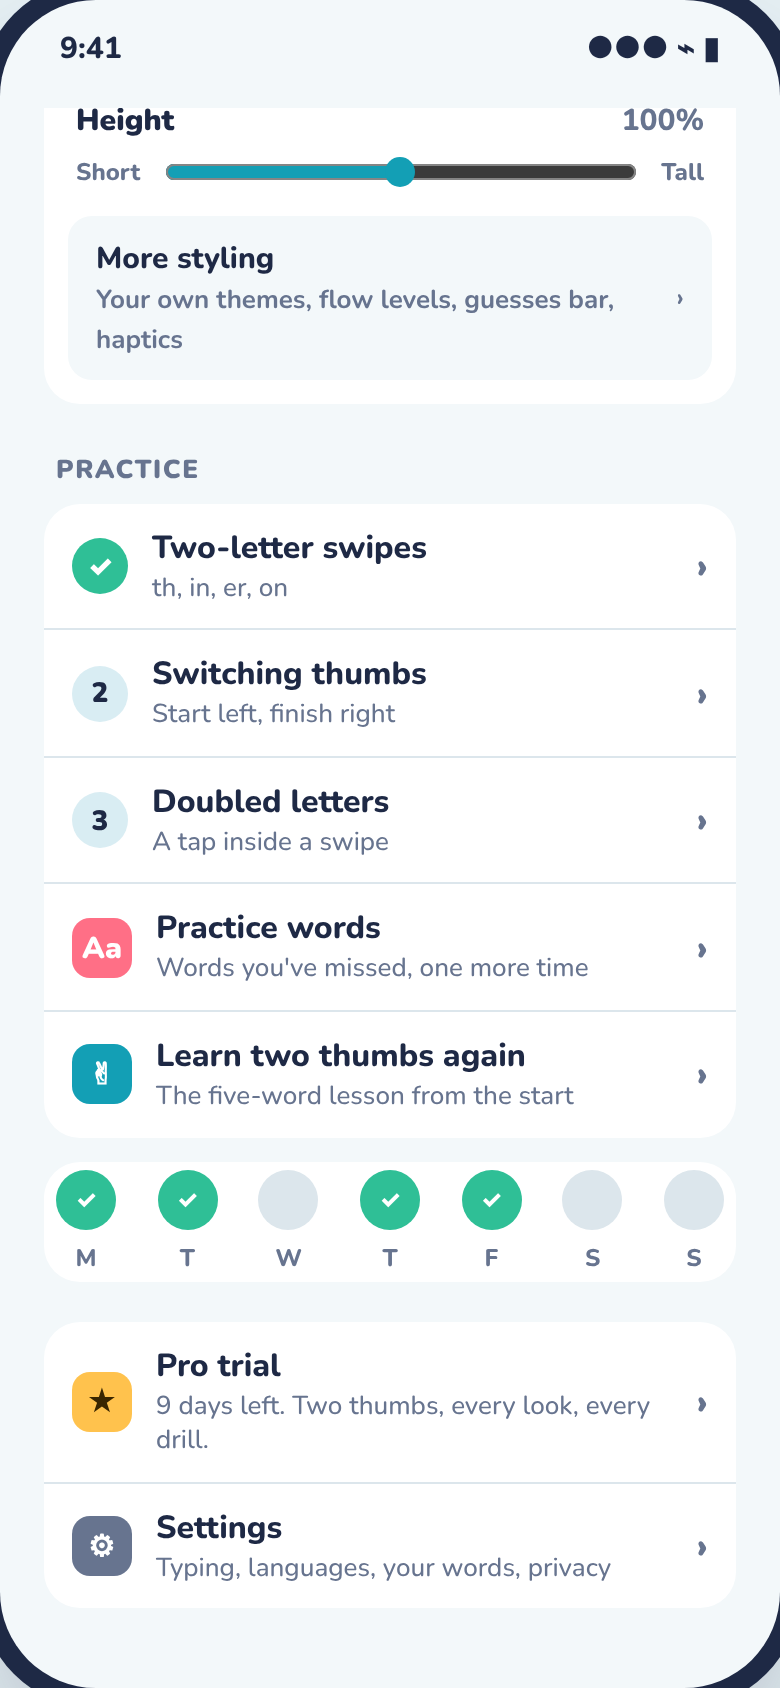
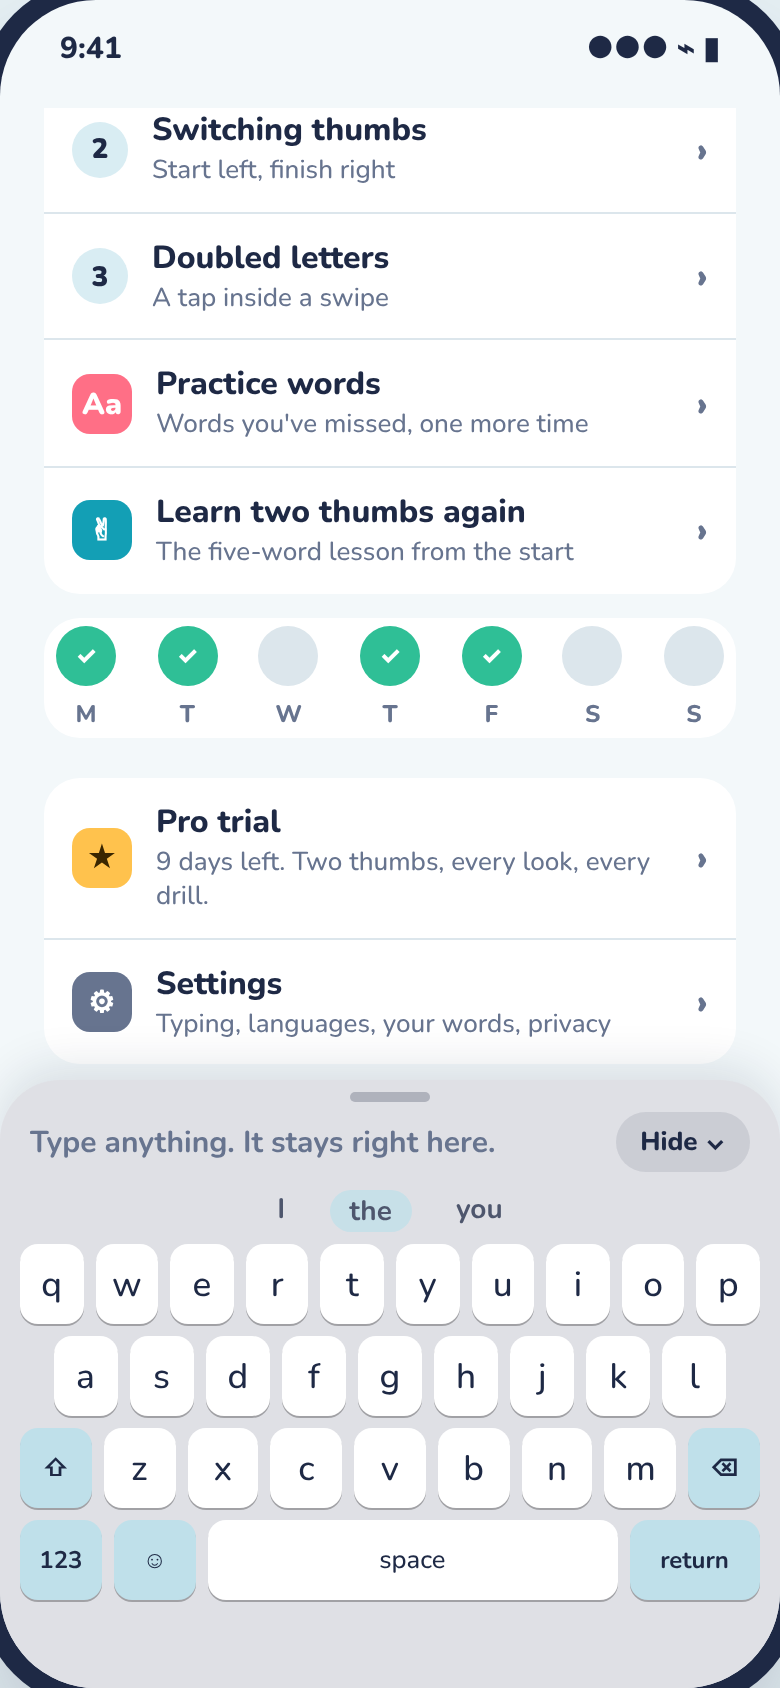
Astrotype: dock the try-it keyboard at the bottom of Home, with Hide
Claude-Session: https://claude.ai/code/session_01GG78N8xC4DUcsZruzJ5kAA

diff --git a/apps/astrotype/features/home-and-welcome/design/mockups/home-and-welcome.html b/apps/astrotype/features/home-and-welcome/design/mockups/home-and-welcome.html
@@ -180,6 +180,26 @@ input[type=range]{flex:1;accent-color:var(--accent)}
 .hint{color:var(--muted);font-size:14px;line-height:1.5}
 .hint .L{color:var(--left);font-weight:900}.hint .R{color:var(--right);font-weight:900}.hint b{color:var(--ink)}
 .kdock{padding:0 4px 26px;flex:none}
+/* KeyboardDock: the live keyboard docked at the bottom like the real one (KeyboardFrame's glass panel), with a handle to hide it */
+.dock{position:absolute;left:0;right:0;bottom:0;z-index:4;background:var(--glass);border-radius:30px 30px 0 0;padding:6px 5px 30px;
+  box-shadow:0 -6px 24px rgba(20,30,60,.12);transition:transform .5s var(--spring)}
+:root{--glass:#DFE0E5}
+@media (prefers-color-scheme: dark){:root:not([data-theme="light"]){--glass:#212121}}
+:root[data-theme="dark"]{--glass:#212121}
+.dock.hidden{transform:translateY(calc(100% + 10px))}
+.dock .dhead{display:flex;align-items:center;gap:8px;padding:2px 10px 6px}
+.dock .grab{position:absolute;top:6px;left:50%;width:40px;height:5px;margin-left:-20px;border-radius:3px;background:color-mix(in srgb,var(--ink) 25%,transparent)}
+.dock .play{flex:1;min-width:0;font-weight:700;font-size:15px;color:var(--ink);white-space:nowrap;overflow:hidden;text-overflow:ellipsis;padding-top:8px}
+.dock .play.empty{color:var(--muted)}
+.dock .hide{border:0;background:color-mix(in srgb,var(--ink) 10%,transparent);color:var(--ink);font-weight:800;font-size:13px;padding:6px 12px;border-radius:999px;cursor:pointer;margin-top:8px}
+.dock .kbd{background:transparent;padding-top:0}
+.phone.wide .dock .inner{max-width:680px;margin:0 auto}
+.phone.small .dock{padding-bottom:6px}
+.kpill{position:absolute;right:18px;bottom:30px;z-index:4;border:0;cursor:pointer;background:var(--ink);color:var(--bg);font-weight:800;font-size:15px;padding:12px 18px;border-radius:999px;
+  box-shadow:0 8px 20px rgba(20,30,60,.25);display:flex;gap:8px;align-items:center;transition:transform .4s var(--spring),opacity .2s}
+.kpill.gone{transform:translateY(30px) scale(.8);opacity:0;pointer-events:none}
+.scroll:has(~.kpill){padding-bottom:100px}
+.scroll.docked{padding-bottom:var(--dockh,320px)}
 .phone.wide .kdock{width:620px;align-self:center}
 .confetti{position:absolute;inset:0;pointer-events:none;z-index:5}
 .stub{display:flex;flex-direction:column;gap:10px;align-items:center;justify-content:center;flex:1;text-align:center;padding:30px;color:var(--muted)}
@@ -194,6 +214,7 @@ input[type=range]{flex:1;accent-color:var(--accent)}
     <small>Home</small>
     <button data-s="before">Home today (before)</button>
     <button data-s="home">New Home</button>
+    <button data-s="homeHidden">New Home, keyboard hidden</button>
     <button data-s="homeFree">New Home, trial over</button>
     <small>Welcome wizard</small>
     <button data-s="hello">1 · Hello</button>
@@ -256,16 +277,17 @@ const WORDS=[
 ];
 
 const S={screen:"home",size:"",theme:"light",kbTheme:"classic",fx:"calm",height:100,pro:true,keyboardOn:false,langs:{en:true,es:true},
-  tryIdx:0,typed:"",lesson:false,sync:false};
+  tryIdx:0,typed:"",lesson:false,sync:false,dockOpen:true,play:""};
 const STEPS=["hello","turnOn","languages","style","tryIt","sync"];
 const WHY={
   before:"Home today: Your speed, Pro, three drills, the week and a Settings row. How the keyboard looks is Home → Settings → Appearance → Styling or Effects, three taps down.",
-  home:"Your speed still leads. Under it, Your keyboard: a live keyboard you can tap, every theme in a sideways row, effect chips, height. Changes go to the keyboard in every app right away. More styling opens today's Appearance page. Practice is one section, with Learn two thumbs again at the end.",
+  home:"Your speed still leads. The keyboard sits at the bottom like the real one, so it's always there to try while you pick a theme, an effect or a height in the Your keyboard card above it. Hide tucks it away; the Keyboard button brings it back. Changes go to the keyboard in every app right away.",
+  homeHidden:"Keyboard hidden: Home is just Home again, and a small Keyboard button in the corner brings it back. Home remembers which way you left it.",
   homeFree:"After the trial, Pro looks fall back to Classic and Calm as today. The card says so once, kindly, and Pro cards keep their tag; tapping one opens Pro.",
   hello:"Step 1, as today. No progress bar yet, just the hello.",
   turnOn:"Step 2. Same words and the same chip that flips to On by itself. Tap 'Open Settings' here to pretend you turned it on. Skip and 'I'll do it later' both move on.",
   languages:"Step 3, only on a phone with more than one language the keyboard knows. Same as today, in the wizard's shape.",
-  style:"Step 4, new. The Your keyboard card, bigger. Classic and Calm are picked to start. Tap a theme or an effect, then tap the keys. Everyone is on the trial here, so Pro looks just carry a small tag.",
+  style:"Step 4, new. The keyboard is docked at the bottom, like on Home, with the theme and effect pickers above it. Classic and Calm are picked to start. Tap a theme or an effect, then tap the keys. Everyone is on the trial here, so Pro looks just carry a small tag.",
   tryIt:"Step 5, today's lesson in the same shape, typed on the look you just picked. Tap 'Show me' to watch, or type the letters and press space. Tap Skip to jump ahead.",
   sync:"Step 6, the Full Access ask, moved after Try it: now it already has words worth keeping.",
   arrive:"Done: Home with confetti, already in your style.",
@@ -362,7 +384,7 @@ function speedCard(){
   const pts=[31,33,32,36,35,38,37,40,39,42,41,44,43,46];const w=300,h=46;const xs=i=>i*w/(pts.length-1),ys=v=>h-4-(v-28)/20*(h-8);
   const d=pts.map((v,i)=>`${i?"L":"M"}${xs(i).toFixed(1)},${ys(v).toFixed(1)}`).join("");
   return `<div class="card" style="display:flex;flex-direction:column;gap:10px">
-    <div class="row"><b style="font-size:17px">Your speed</b><span class="spacer"></span><span class="chip on">↑ 6 this month</span></div>
+    <div class="row"><b style="font-size:17px">Your speed</b><span class="spacer"></span><span class="chip">#1,204 this week</span><span class="chip on">↑ 6</span></div>
     <div class="row" style="align-items:flex-end;gap:8px"><span class="big">46</span><span class="unit" style="padding-bottom:6px">words a minute, every day</span></div>
     <svg class="spark" viewBox="0 0 ${w} ${h}" preserveAspectRatio="none"><path class="fl" d="${d}L${w},${h}L0,${h}Z"/><path class="ln" d="${d}" vector-effect="non-scaling-stroke"/><circle class="pd" cx="${xs(10)}" cy="${ys(49)}" r="5"/><circle class="pd" cx="${xs(12)}" cy="${ys(51)}" r="5"/></svg>
     <div class="row"><button class="btn small">Practice for speed</button><span class="spacer"></span><button class="btn ghost" style="font-size:14px">History ›</button></div>
@@ -377,14 +399,22 @@ function fxChips(){
 }
 function keyboardCard(opts={}){
   return `<div class="card kcard">
-    ${kbd({h:opts.big?40:36})}
-    <div class="tryline">Tap the keys to try it.</div>
+    ${opts.inline?kbd({h:40}):""}
     ${!S.pro?`<div class="resting">Pro looks are resting. Classic and Calm are on. <a href="#" data-go="pro" style="color:var(--accent);font-weight:900;text-decoration:none">See Pro</a></div>`:""}
     <div class="lbl">THEME</div>${themeRow()}
     <div class="lbl">EFFECTS</div>${fxChips()}
     ${opts.height===false?"":`<div class="sl"><div class="top"><b>Height</b><span id="hv">${S.height}%</span></div><div class="ends">Short<input type="range" id="height" min="80" max="120" step="5" value="${S.height}" aria-label="Height">Tall</div></div>`}
-    ${opts.more===false?"":`<button class="more" data-go="appearance"><div style="text-align:left">More styling<br><span>Your own themes, flow levels, guesses bar, haptics</span></div><span class="chev">›</span></button>`}
+    ${opts.more===false?"":`${S.dockOpen?"":`<button class="more" data-act="showkb"><div style="text-align:left">Try it on the keyboard<br><span>Shows it at the bottom of Home</span></div><span class="chev">⌨</span></button>`}<button class="more" data-go="appearance"><div style="text-align:left">More styling<br><span>Your own themes, flow levels, guesses bar, haptics</span></div><span class="chev">›</span></button>`}
   </div>`;
+}
+function dock(opts={}){
+  const play=S.play||"";
+  return `<div class="dock ${S.dockOpen||opts.fixed?"":"hidden"}" id="dock"><div class="inner">
+    ${opts.fixed?`<div class="dhead"><span class="play ${play?"":"empty"}" id="play">${play||"Tap or swipe to try your look"}</span></div>`
+      :`<span class="grab" aria-hidden="true"></span><div class="dhead"><span class="play ${play?"":"empty"}" id="play">${play||"Type anything. It stays right here."}</span><button class="hide" data-act="hidekb" aria-label="Hide keyboard">Hide ⌄</button></div>`}
+    ${kbd({h:40,bar:opts.fixed?undefined:`<span>I</span><span class="mid">the</span><span>you</span>`})}
+  </div></div>
+  ${opts.fixed?"":`<button class="kpill ${S.dockOpen?"gone":""}" data-act="showkb" aria-label="Show keyboard">⌨ Keyboard</button>`}`;
 }
 function practice(){
   const drills=[["Two-letter swipes","th, in, er, on",true],["Switching thumbs","Start left, finish right",false],["Doubled letters","A tap inside a swipe",false]];
@@ -408,10 +438,10 @@ const wide=()=>S.size==="wide";
 function homeScreen(){
   const left=`${speedCard()}${sec("Your keyboard")}${keyboardCard()}`;
   const right=`${practice()}${bottomRows()}`;
-  return `<div class="scroll">
+  return `<div class="scroll ${S.dockOpen?"docked":""}">
     <div class="hdr"><div class="h1">${wide()?"Both flippers, go.":"Both<br>flippers, go."}</div>${thumbsSVG()}</div>
     <div class="cols"><div class="col">${left}</div><div class="col">${right}</div></div>
-  </div>`;
+  </div>${dock()}`;
 }
 function beforeScreen(){
   return `<div class="scroll">
@@ -426,16 +456,17 @@ function beforeScreen(){
     <p class="note">Themes and effects: Settings → Appearance → Styling / Effects.</p>
   </div>`;
 }
-function wizard(step,{title,body,content="",buttons,dock=""}){
+function wizard(step,{title,body,content="",buttons,dock="",after=""}){
   const i=STEPS.indexOf(step),n=STEPS.length;
   const top=step==="hello"?"":S.lesson?`<div class="wtop"><span class="chip">Lesson</span><span class="spacer"></span><button class="skip" data-go="home">Done</button></div>`
     :`<div class="wtop"><div class="prog" role="progressbar" aria-label="Step ${i+1} of ${n}" aria-valuenow="${i+1}" aria-valuemin="1" aria-valuemax="${n}" style="--p:${(S.prevP??i)/n*100}%"><i></i></div><button class="skip" data-next>Skip</button></div>`;
-  return `${top}<div class="wbody">${title?`<div class="h1">${title}</div>`:""}${body?`<p class="sub">${body}</p>`:""}${content}</div>${dock}<div class="wfoot">${buttons}</div>`;
+  return `${top}<div class="wbody">${title?`<div class="h1">${title}</div>`:""}${body?`<p class="sub">${body}</p>`:""}${content}</div>${dock}<div class="wfoot" ${after?'style="padding-bottom:var(--dockh,300px)"':""}>${buttons}</div>${after}`;
 }
 const SCREENS={
   before:beforeScreen,
   home:homeScreen,
   homeFree:homeScreen,
+  homeHidden:homeScreen,
   arrive:homeScreen,
   hello:()=>`<div class="wbody" style="justify-content:center;align-items:center;text-align:center;gap:16px">
       <div class="art">${bigArt()}</div><div class="h1">Type with both thumbs.</div>
@@ -449,7 +480,7 @@ const SCREENS={
     content:`<div class="group">${[["en","English","English"],["es","Español","Spanish"]].map(([c,n,e])=>row({lead:`<span class="ic" style="background:${c==="en"?"var(--left)":"var(--right)"}">${c.toUpperCase()}</span>`,title:n,sub:e,end:`<button class="toggle" role="switch" aria-label="${n}" aria-checked="${S.langs[c]}" data-lang="${c}"></button>`})).join("")}</div>`,
     buttons:`<button class="btn wide" data-next>Continue</button>`}),
   style:()=>wizard("style",{title:"Make it yours",body:"Pick a look and a little sparkle. You can change it any time on Home.",
-    content:keyboardCard({big:true,more:false,height:false}),buttons:`<button class="btn wide" data-next>Looks good</button>`}),
+    content:keyboardCard({more:false,height:false}),buttons:`<button class="btn wide" data-next>Looks good</button>`,after:dock({fixed:true})}),
   tryIt:()=>{const W=WORDS[S.tryIdx];return wizard("tryIt",{title:"",
     content:`<div class="row"><span class="chip">Try it · word ${S.tryIdx+1} of 5</span></div>
       <div><div class="note" style="margin:0">Type this word</div><div class="word">${W.w}</div></div>
@@ -476,13 +507,18 @@ function render(anim=true){
   document.querySelectorAll("#themes button").forEach(b=>b.setAttribute("aria-pressed",b.dataset.theme===(pageDark()?"dark":"light")));
   document.getElementById("why").textContent=WHY[S.screen]||"";
   const kb=phone.querySelector("[data-kb]");
-  S.eng=kb?wireKbd(kb,S.screen==="tryIt"||S.screen==="lesson"?typeKey:null):null;
+  S.eng=kb?wireKbd(kb,S.screen==="tryIt"||S.screen==="lesson"?typeKey:playKey):null;
+  syncDock();
   const pr=phone.querySelector(".prog");if(pr){requestAnimationFrame(()=>requestAnimationFrame(()=>pr.style.setProperty("--p",(STEPS.indexOf(S.screen)+1)/STEPS.length*100+"%")))}
-  const h=phone.querySelector("#height");if(h)h.oninput=e=>{S.height=+e.target.value;phone.querySelector("#hv").textContent=S.height+"%";const k=phone.querySelector("[data-kb]");k.style.setProperty("--kh",Math.round((S.screen==="style"?40:36)*S.height/100)+"px")};
+  const h=phone.querySelector("#height");if(h)h.oninput=e=>{S.height=+e.target.value;phone.querySelector("#hv").textContent=S.height+"%";const k=phone.querySelector("[data-kb]");k.style.setProperty("--kh",Math.round(40*S.height/100)+"px");syncDock()};
 }
 function go(s){S.prevP=STEPS.includes(S.screen)?STEPS.indexOf(S.screen)+1:0;if(s==="homeFree")S.pro=false;else if(["home","arrive","before"].includes(s)&&S.screen==="homeFree")S.pro=true;
+  if(["home","homeFree","arrive"].includes(s))S.dockOpen=true;if(s==="homeHidden")S.dockOpen=false;
   if(s==="tryIt"||s==="lesson"){S.tryIdx=0;S.typed=""}S.lesson=s==="lesson";S.screen=s;render()}
 function next(){const i=STEPS.indexOf(S.screen);if(S.screen==="tryIt"&&S.lesson){go("home");return}go(i>=0&&i<STEPS.length-1?STEPS[i+1]:"arrive")}
+function syncDock(){const d=phone.querySelector("#dock");if(!d)return;const h=d.offsetHeight+12;phone.querySelectorAll(".scroll.docked,.wfoot").forEach(e=>e.style.setProperty("--dockh",h+"px"))}
+function playKey(k){if(k==="space")S.play=(S.play||"")+" ";else if(k==="del")S.play=(S.play||"").slice(0,-1);else if(k.length===1)S.play=(S.play||"")+k;else return;
+  const p=phone.querySelector("#play");if(p){const t=S.play.trim()?S.play:"";p.textContent=t?S.play.slice(-40):p.dataset.ph||"Type anything. It stays right here.";p.classList.toggle("empty",!t)}}
 function typeKey(k){
   if(k==="space"){const W=WORDS[S.tryIdx];if(S.typed===W.w){if(S.tryIdx<4){S.tryIdx++;S.typed="";rerenderTry()}else{confetti();setTimeout(()=>S.lesson?go("home"):next(),1300)}}else{S.typed="";rerenderTry()}return}
   if(k==="del"){S.typed=S.typed.slice(0,-1);rerenderTry();return}
@@ -507,11 +543,14 @@ phone.addEventListener("click",e=>{
     demo(S.eng,[["h","L"],["e","L"],["l","R"],["l","R"],["o","R"]]);setTimeout(()=>demo(S.eng,[["w","L"],["a","L"],["d","L"]]),700);return}
   if(t.dataset.lang){const c=t.dataset.lang;const on=t.getAttribute("aria-checked")!=="true";if(!on&&Object.values(S.langs).filter(Boolean).length<2)return;S.langs[c]=on;t.setAttribute("aria-checked",on);return}
   if(t.hasAttribute("data-next")){next();return}
+  if(t.dataset.act==="showkb"||t.dataset.act==="hidekb"){S.dockOpen=t.dataset.act==="showkb";const d=phone.querySelector("#dock");d.classList.toggle("hidden",!S.dockOpen);
+    phone.querySelector(".kpill")?.classList.toggle("gone",S.dockOpen);const sc=phone.querySelector(".scroll");sc.classList.toggle("docked",S.dockOpen);syncDock();
+    const m=phone.querySelectorAll('.more[data-act="showkb"]');m.forEach(x=>x.style.display=S.dockOpen?"none":"");return}
   if(t.dataset.act==="turnon"){S.keyboardOn=true;render(false);confetti();return}
   if(t.dataset.act==="finish"){go("arrive");return}
   if(t.dataset.act==="showme"){const W=WORDS[S.tryIdx];demo(S.eng,W.seq);S.typed="";setTimeout(()=>{S.typed=W.w;rerenderTry()},W.seq.length*200+100);return}
   const g=t.dataset.go;
-  if(g==="home"){go(S.pro?"home":"homeFree");return}
+  if(g==="home"){const o=S.dockOpen;go(S.pro?"home":"homeFree");if(!o&&S.screen!=="arrive"){S.dockOpen=false;render(false)}return}
   if(g==="lesson"){go("lesson");return}
   const STUBS={appearance:["Appearance","Today's Appearance page (General, Styling, Effects), unchanged. It's just one tap from Home now."],settings:["Settings","Today's Settings. Appearance stays there too."],
     pro:["Astrotype Pro","Today's Pro screen."],drill:["Drill","Today's drill screen."],pw:["Practice words","Today's Practice words."]};
@@ -525,7 +564,7 @@ document.querySelector(".picker").addEventListener("click",e=>{
   if(b.dataset.theme){document.documentElement.dataset.theme=b.dataset.theme;render(false)}
 });
 const [h,hs,ht,hk,hf]=location.hash.slice(1).split(",");if(SCREENS[h])S.screen=h;if(S.screen==="homeFree")S.pro=false;
-if(hs)S.size=hs==="iphone"?"":hs;if(ht)document.documentElement.dataset.theme=ht;if(hk&&THEMES[hk])S.kbTheme=hk;if(hf&&FX[hf])S.fx=hf;if(S.screen==="turnOn"&&hk==="on")S.keyboardOn=true;
+if(S.screen==="homeHidden")S.dockOpen=false;if(hs)S.size=hs==="iphone"?"":hs;if(ht)document.documentElement.dataset.theme=ht;if(hk&&THEMES[hk])S.kbTheme=hk;if(hf&&FX[hf])S.fx=hf;if(S.screen==="turnOn"&&hk==="on")S.keyboardOn=true;
 render();
 </script>
 </body>

diff --git a/apps/astrotype/features/home-and-welcome/FEATURE.md b/apps/astrotype/features/home-and-welcome/FEATURE.md
@@ -21,9 +21,12 @@ Status: Draft
     there is no way to see the lesson again later.
 - **Who wants it:** everyone. Both are on the simple path.
 - **How it works:**
-  - **Home** keeps Your speed on top. Under it, a new **Your keyboard** card: a live
-    keyboard you can tap, a row of themes, a row of effects, and a Height slider.
-    Changes apply right away, in every app. "More styling" opens the full Appearance
+  - **Home** keeps Your speed on top. Under it, a new **Your keyboard** card with a
+    row of themes, a row of effects and a Height slider. The live keyboard itself is
+    **docked at the bottom of Home, like a real keyboard** (Gabriel, 9 Nov 2026), so
+    it's always there to tap while you pick. **Hide** slides it away and a small
+    **Keyboard** button in the corner brings it back; Home remembers which way you left
+    it. Changes apply right away, in every app. "More styling" opens the full Appearance
     page (your own themes, flow levels, guesses bar, haptics, split) as today.
   - Below that, **Practice** (Speed practice, the three drills, Practice words and the
     week dots), then a new **Learn two thumbs again** row that replays the lesson, then
@@ -33,7 +36,7 @@ Status: Draft
     1. **Hello**: "Type with both thumbs." (as now)
     2. **Turn it on**: the three Settings steps, the chip flips to On by itself (as now)
     3. **Languages**: only on a phone with more than one language (as now)
-    4. **Make it yours** (new): pick a theme and an effect on a live keyboard. Classic
+    4. **Make it yours** (new): pick a theme and an effect, with the keyboard docked at the bottom to try them. Classic
        and Calm are picked to start. "You can change this any time on Home."
     5. **Try it**: the five words with thumb hints and Show me (as now), typed on the
        style you just picked
@@ -69,6 +72,9 @@ Status: Draft
 3. **Full Access after Try it** (my pick, it reads better once it has learned words), or
    keep it before as today?
 
+- **Leaderboards** (PR #203, built in another thread): its rank chip sits in Your
+  speed's card, which this redesign keeps as is, so the two fit together.
+
 ## Design
 
 Status: Draft
@@ -83,33 +89,39 @@ Status: Draft
     Keep your words and Try it all use one `WizardPage`, with the progress bar on top and
     Skip in the corner. Their words stay the same.
 - **New screens:**
-  - **Your keyboard card** (`02-home.png`, `03-home-dark.png`, `04-home-free.png`, `05-home-scrolled.png`): a live keyboard (the same `StylePreview`
-    the Styling page uses), tap it to see the effect. Under it, theme cards in a
+  - **Your keyboard card** (`02-home.png`, `03-home-dark.png`, `04-home-free.png`, `05-home-scrolled.png`): theme cards in a
     sideways row (Classic, Iceberg, Tuxedo, Krill, Midnight, Paper, Arcade, Bold, then
     your own) and effect chips (Calm, Arcade, Glitch, Rainbow, Space, Zen, Sugar Rush,
     Off). A Height slider. "More styling ›" at the bottom.
+  - **Keyboard dock** (`02-home.png`, `08-home-kb-hidden.png`): the practice keyboard in
+    the same glass frame as the real one (`KeyboardFrame`), pinned to the bottom of
+    Home, with a grab handle, a line that shows what you type ("Type anything. It stays
+    right here.") and a **Hide** button. Hidden, it leaves a **Keyboard** button in the
+    corner. Home scrolls above it, so nothing is covered. On the wide screen it spans
+    the bottom with the keys centred (`07-home-wide.png`).
   - **Make it yours** (`14-make-it-yours.png`, `18-style-dark.png`): the same card, bigger, as a wizard step.
   - **Learn two thumbs again**: a row in Practice that opens Try it on its own (no
     progress bar, Done instead of Skip; `19-lesson.png`).
 - **Motion and copy:**
+  - The dock slides up and down with a spring (fade under Reduce Motion).
   - The progress bar fills with a spring between steps; pages slide in from the right
     (fade under Reduce Motion), as now.
   - Picking a theme: the preview keys flip to the new colours with a small bounce, light
     haptic. Picking an effect plays it once on the preview by itself.
   - Copy: "Make it yours" / "Pick a look and a little sparkle. You can change it any
-    time on Home." · Card: "Your keyboard" / "Tap the keys to try it." · "More styling ›"
+    time on Home." · Card: "Your keyboard" · Dock: "Type anything. It stays right here." / "Hide" / "Keyboard" · "More styling ›"
     · "Learn two thumbs again" / "The five-word lesson from the start." · Trial over on
     the card: "Pro looks are resting. Classic and Calm are on."
 - **Design system:** uses `Card`, `SectionLabel`, `Chip`, `ProBadge`, `SettingsSlider`,
   `StylePreview`, and the theme card from Styling (moves to AstrotypeUI as `ThemeCard`).
   New: `WizardPage` (replaces `SetupPage`: progress, title, line, content, buttons) and
   `StepProgress` (the bar).
-- **Sizes:** on the small phone the card's theme row scrolls sideways and the preview
-  gets shorter (`06-home-small.png`). On the wide Duo screen Home has two columns: Your
+- **Sizes:** on the small phone the card's theme row scrolls sideways and the dock drops
+  its typed line (`06-home-small.png`). On the wide Duo screen Home has two columns: Your
   speed and Your keyboard on the left, Practice on the right (`07-home-wide.png`); the
   wizard stays a centred 560-wide column with a bigger preview (`16-style-wide.png`).
 - **Accessibility:** theme cards read "Iceberg theme, Pro, selected". The progress bar
-  reads "Step 4 of 6". The live preview is decorative to VoiceOver; picking reads the
+  reads "Step 4 of 6". The docked keyboard is decorative to VoiceOver (its Hide/Keyboard buttons are not); picking reads the
   new name. Reduce Motion: no bounce, effects preview shows one still frame.
 
 ### Open questions
